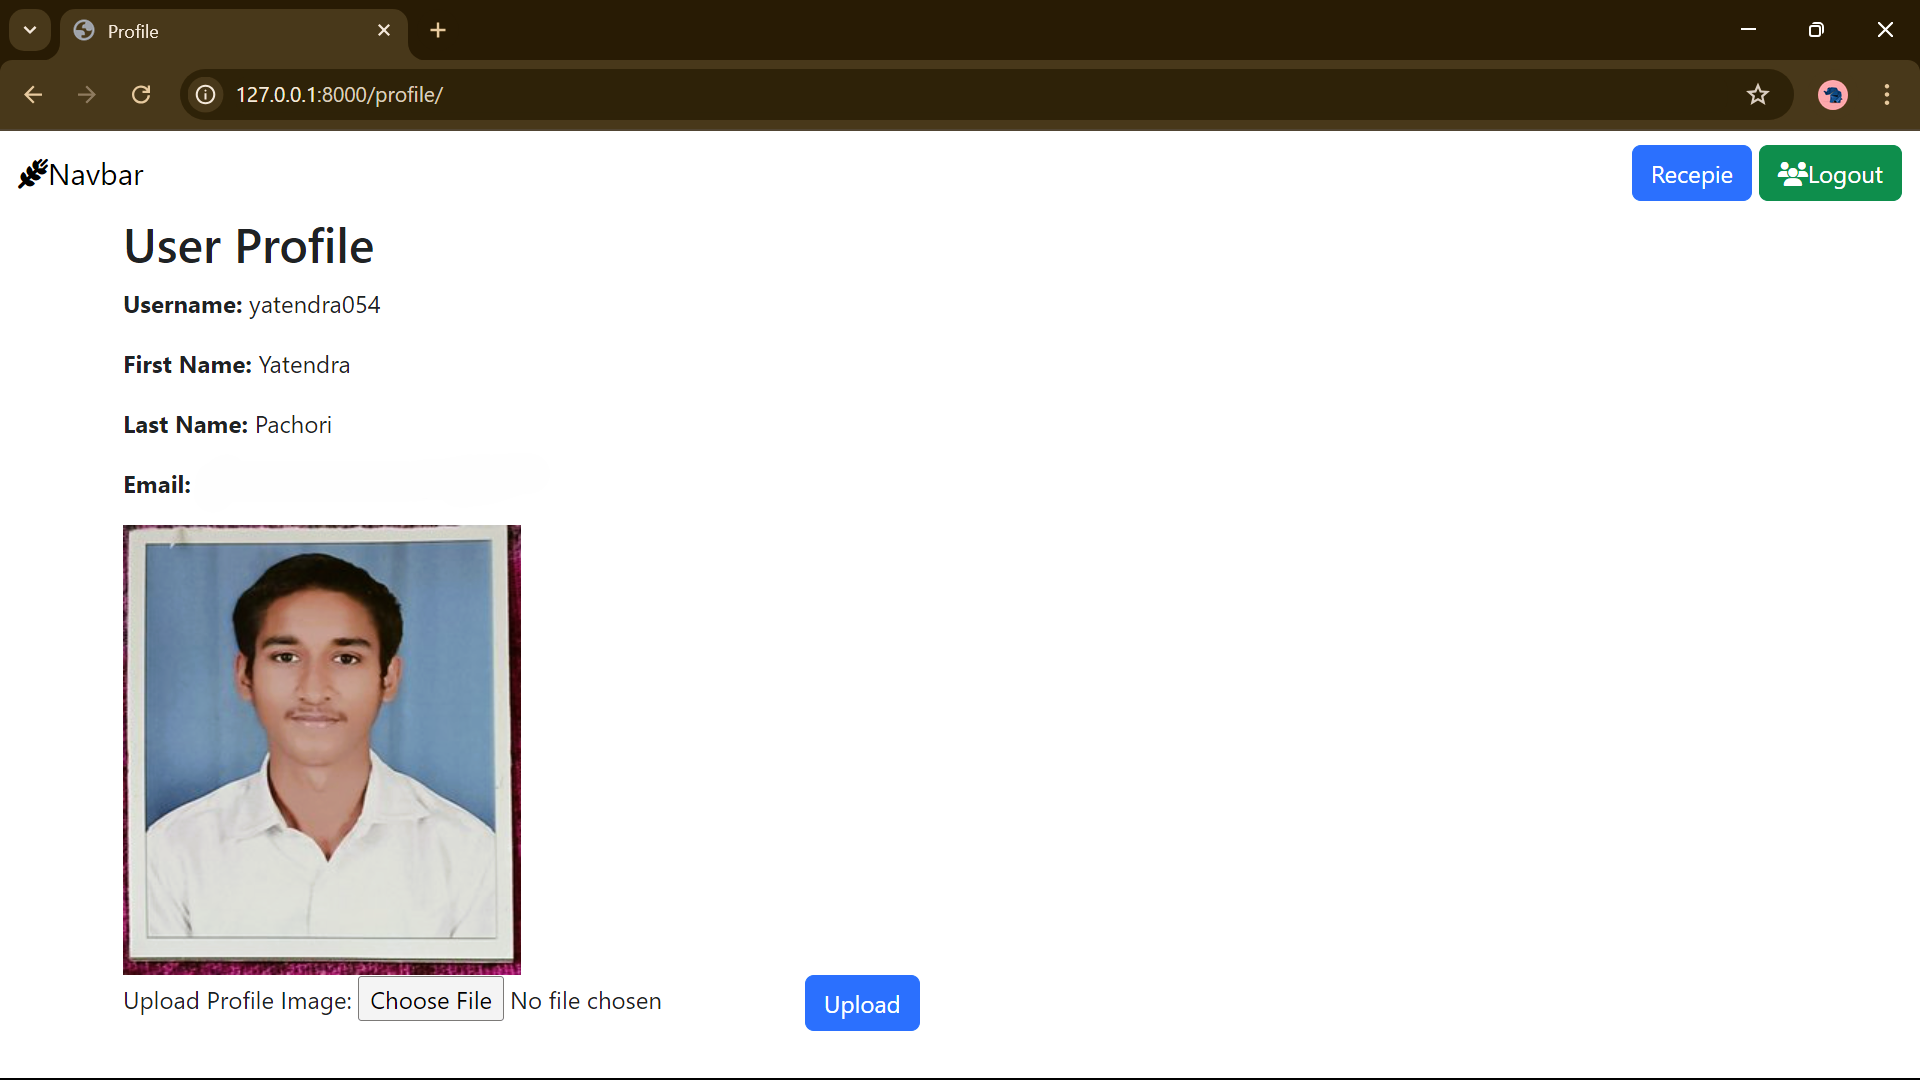
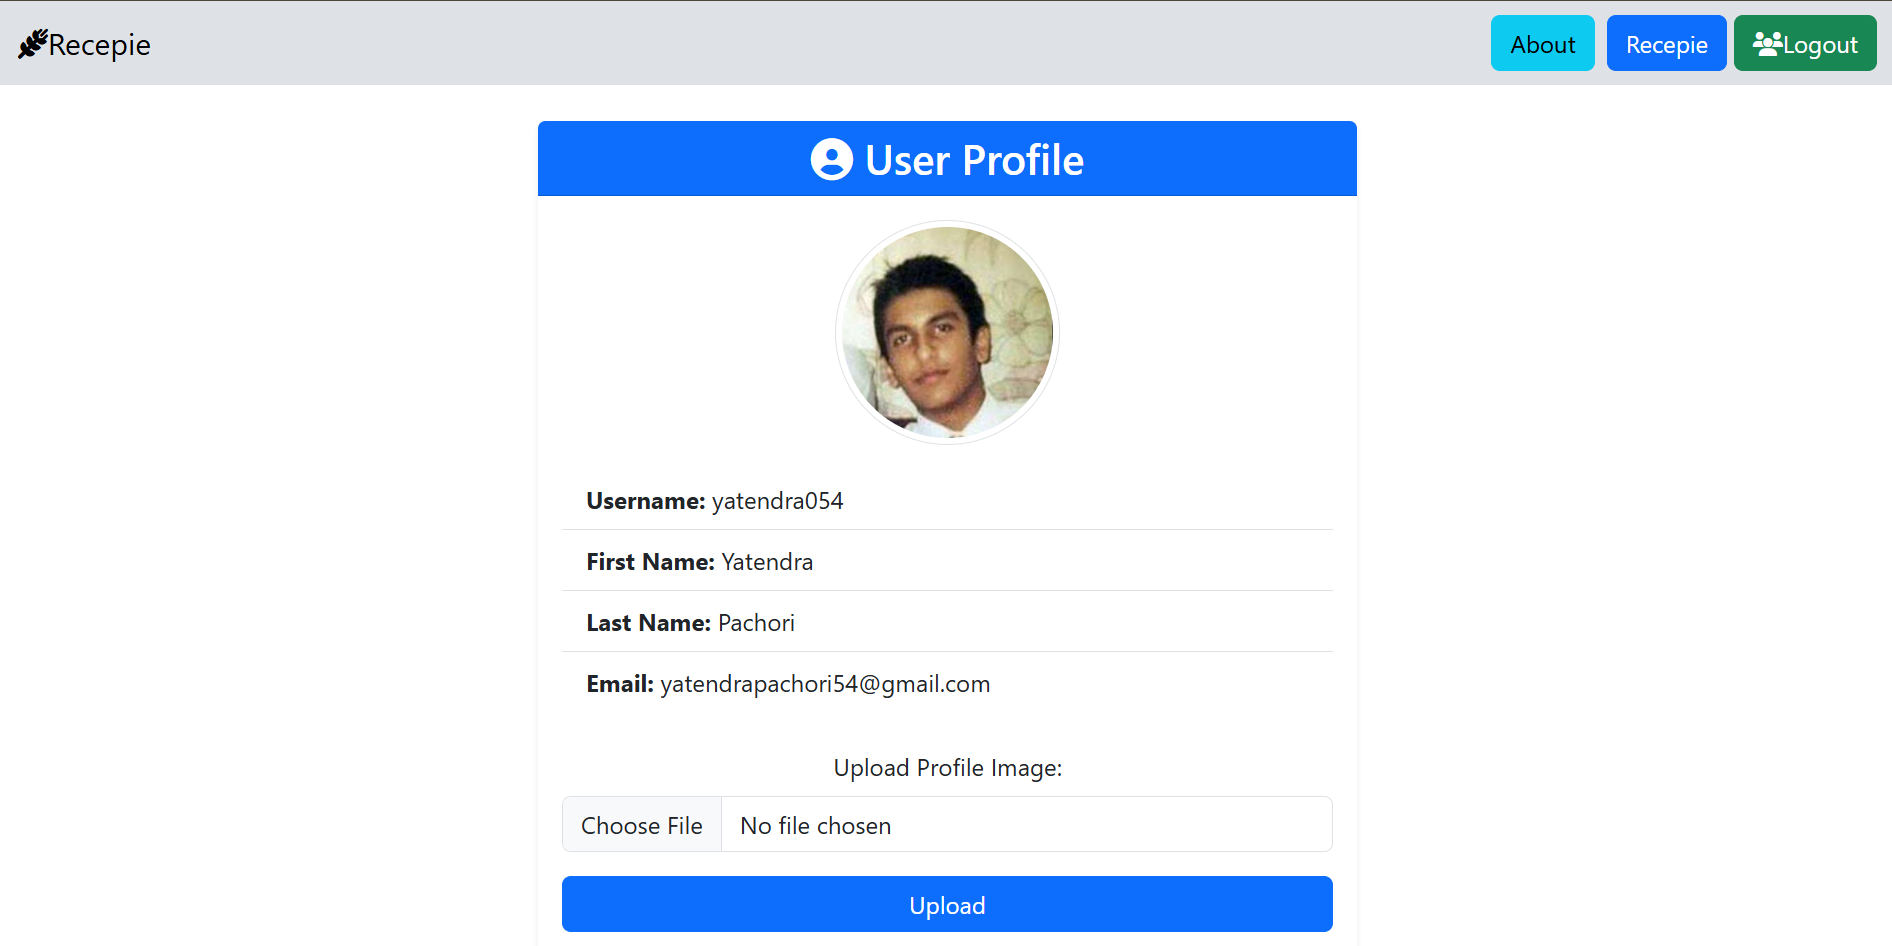
Update files

diff --git a/recepe/templates/Profile.html b/recepe/templates/Profile.html
@@ -1,26 +1,47 @@
 {% extends "base.html" %}
 {% block title %}Profile{% endblock %}
 {% block content %}
-<div class="container">
-    <h2>User Profile</h2>
-    {% if user_info %}
-        <p><strong>Username:</strong> {{ user_info.User_Name }}</p>
-        <p><strong>First Name:</strong> {{ user_info.First_Name }}</p>
-        <p><strong>Last Name:</strong> {{ user_info.Last_Name }}</p>
-        <p><strong>Email:</strong> {{ user_info.Email }}</p>
-        {% if user_info.profile_image %}
-            <img src="{{ user_info.profile_image.url }}" alt="Profile Image" class="profile-image"/>
-        {% else %}
-            <p>No profile image uploaded</p>
-        {% endif %}
-        <form method="post" enctype="multipart/form-data">
-            {% csrf_token %}
-            <label for="profile_image">Upload Profile Image:</label>
-            <input type="file" name="profile_image" id="profile_image">
-            <button type="submit" class="btn btn-primary">Upload</button>
-        </form>
-    {% else %}
-        <p>No user information found</p>
-    {% endif %}
+<div class="container mt-4">
+    <div class="row justify-content-center">
+        <div class="col-lg-6 col-md-8">
+            <div class="card shadow-sm border-0">
+                <div class="card-header bg-primary text-white text-center">
+                    <h3 class="mb-0"><i class="fa-solid fa-user-circle"></i> User Profile</h3>
+                </div>
+                <div class="card-body">
+                    {% if user_info %}
+                        <div class="text-center">
+                            {% if user_info.profile_image %}
+                                <img src="{{ user_info.profile_image.url }}" alt="Profile Image" class="rounded-circle img-thumbnail mb-3" style="width: 150px; height: 150px;">
+                            {% else %}
+                                <div class="bg-secondary text-white rounded-circle d-flex align-items-center justify-content-center mb-3" style="width: 150px; height: 150px; font-size: 50px;">
+                                    <i class="fa-solid fa-user"></i>
+                                </div>
+                                <p class="text-muted">No profile image uploaded</p>
+                            {% endif %}
+                        </div>
+                        <ul class="list-group list-group-flush">
+                            <li class="list-group-item"><strong>Username:</strong> {{ user_info.User_Name }}</li>
+                            <li class="list-group-item"><strong>First Name:</strong> {{ user_info.First_Name }}</li>
+                            <li class="list-group-item"><strong>Last Name:</strong> {{ user_info.Last_Name }}</li>
+                            <li class="list-group-item"><strong>Email:</strong> {{ user_info.Email }}</li>
+                        </ul>
+                        <div class="mt-4">
+                            <form method="post" enctype="multipart/form-data" class="text-center">
+                                {% csrf_token %}
+                                <div class="mb-3">
+                                    <label for="profile_image" class="form-label">Upload Profile Image:</label>
+                                    <input type="file" name="profile_image" id="profile_image" class="form-control">
+                                </div>
+                                <button type="submit" class="btn btn-primary w-100">Upload</button>
+                            </form>
+                        </div>
+                    {% else %}
+                        <p class="text-center text-danger">No user information found</p>
+                    {% endif %}
+                </div>
+            </div>
+        </div>
+    </div>
 </div>
 {% endblock %}

diff --git a/recepe/templates/recepie.html b/recepe/templates/recepie.html
@@ -150,13 +150,14 @@
       {% endif %}  
             
 </div>
-<button class="ai-assistant-button" onclick="toggleAssistantModal()">AI</button>  
-<div class="modal-overlay" onclick="toggleAssistantModal()"></div>
-<div class="ai-assistant-modal" id="aiModal">
-    <h2>AI Assistant</h2>
-    <textarea id="assistantInput" class="form-control" rows="3" placeholder="Ask something..."></textarea>
-    <button class="btn btn-primary mt-3" onclick="sendToAssistant()">Submit</button>
-    <div id="assistantResponse" class="mt-3"></div>
+  <input type="hidden" name="csrfmiddlewaretoken" value="{{ csrf_token }}">
+  <button class="ai-assistant-button" onclick="toggleAssistantModal()">AI</button>  
+  <div class="modal-overlay" onclick="toggleAssistantModal()"></div>
+  <div class="ai-assistant-modal" id="aiModal">
+      <h2>AI Assistant</h2>
+      <textarea id="assistantInput" class="form-control" rows="3" placeholder="Ask something..."></textarea>
+      <button class="btn btn-primary mt-3" onclick="sendToAssistant()">Submit</button>
+      <div id="assistantResponse" class="mt-3"></div>
 </div>
 
 <script>

diff --git a/recepe/templates/base.html b/recepe/templates/base.html
@@ -16,6 +16,10 @@
         .sav{
             margin-right: 2px;
         }
+        body{
+            display: flex;
+            flex-direction: column;
+        }
         footer {
             background-color: rgb(222, 226, 230);
             padding: 20px;
@@ -57,9 +61,11 @@
           
         </div>
     </nav>
+    <main>
     {% block content %}
 
     {% endblock %}
+    </main>
     <footer>
         <div style="margin-bottom: 5px;">
             <a class="navbar-brand sav" href="/" style="font-size: 28px;">Recepie <i class="fa-solid fa-wheat-awn"></i></a>

diff --git a/recepe/views.py b/recepe/views.py
@@ -14,7 +14,7 @@ from recepe.utils import send_email_to_client
 import re
 import json
 from django.http import JsonResponse
-from transformers import pipeline
+from transformers import AutoTokenizer, AutoModelForCausalLM, pipeline
 from django.views.decorators.csrf import csrf_exempt
 from django.urls import reverse
 @login_required(login_url='/')
@@ -200,7 +200,6 @@ def profile(request):
             
             resized_image = ContentFile(image_io.getvalue(), uploaded_image.name)
             user_info.profile_image.save(uploaded_image.name, resized_image, save=True)
-            messages.success(request, "Profile image uploaded and resized successfully.")
             
             return redirect(reverse('profile'))  
         else:

diff --git a/Start/settings.py b/Start/settings.py
@@ -80,7 +80,7 @@ DATABASES = {
         "NAME": BASE_DIR / "db.sqlite3",
     }
 }
-ALLOWED_HOSTS=['add-recipe-backend.onrender.com']
+# ALLOWED_HOSTS=['add-recipe-backend.onrender.com']
 
 # Password validation
 # https://docs.djangoproject.com/en/5.0/ref/settings/#auth-password-validators
